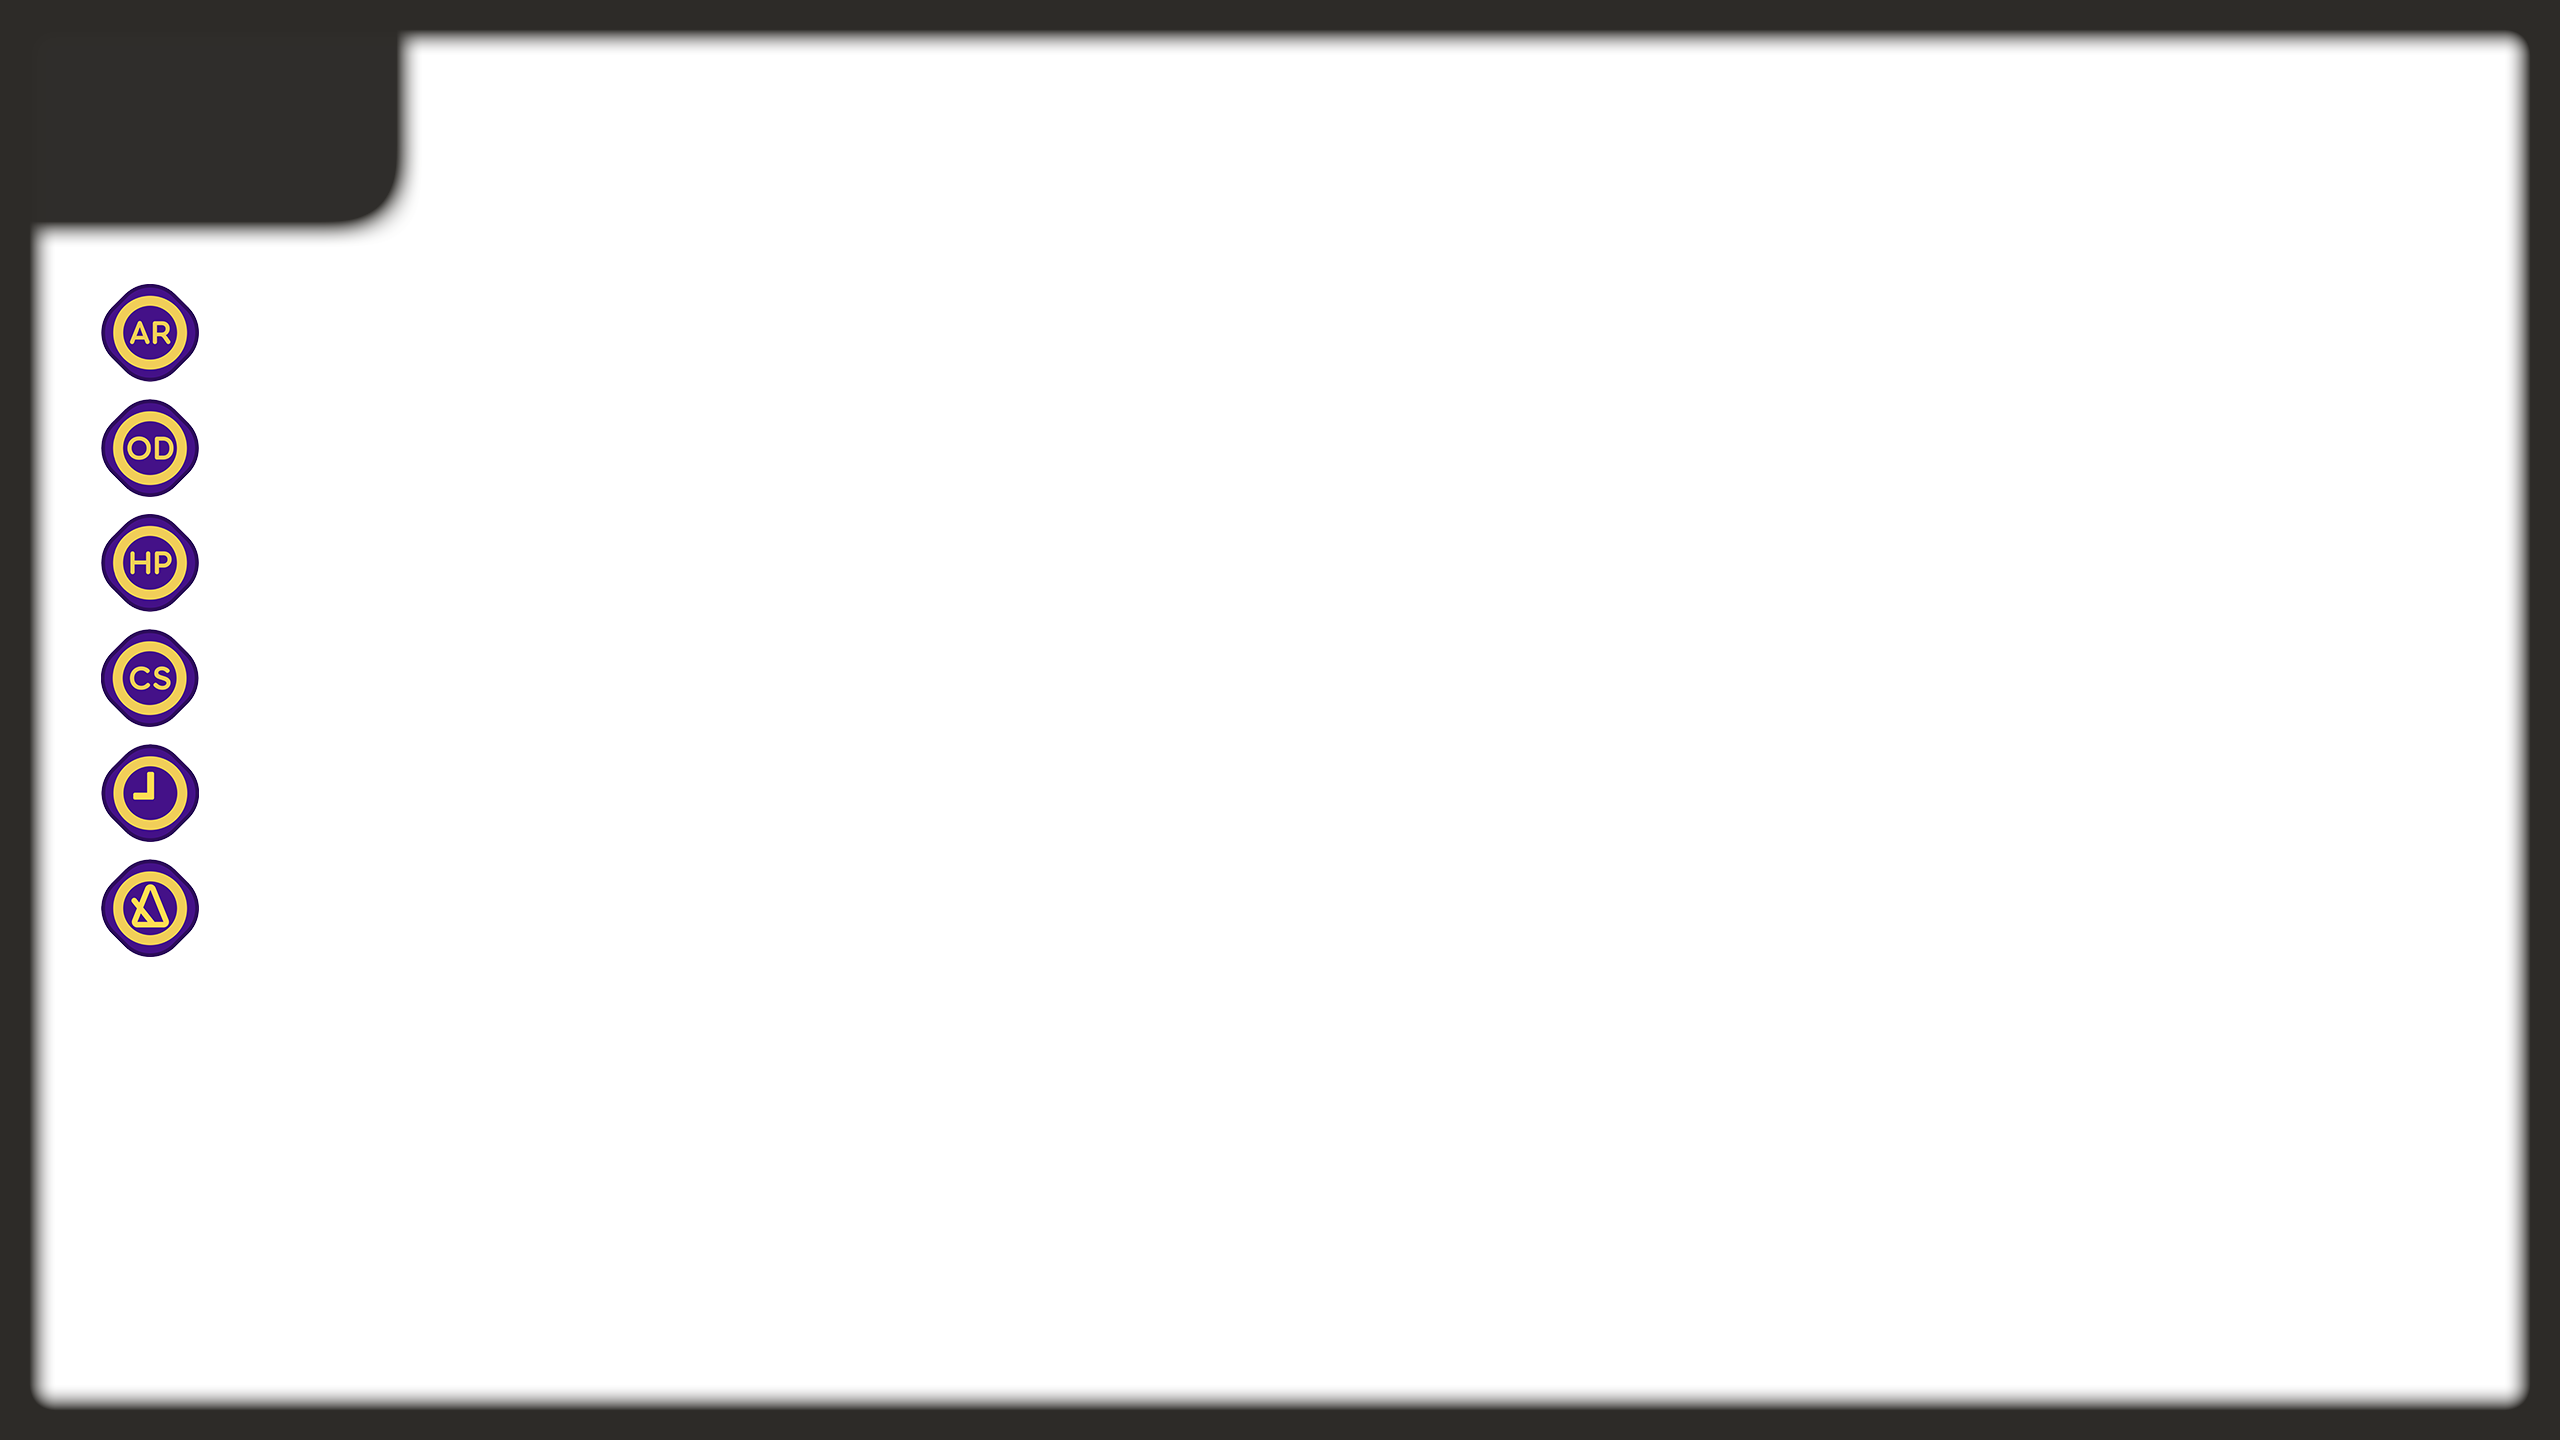
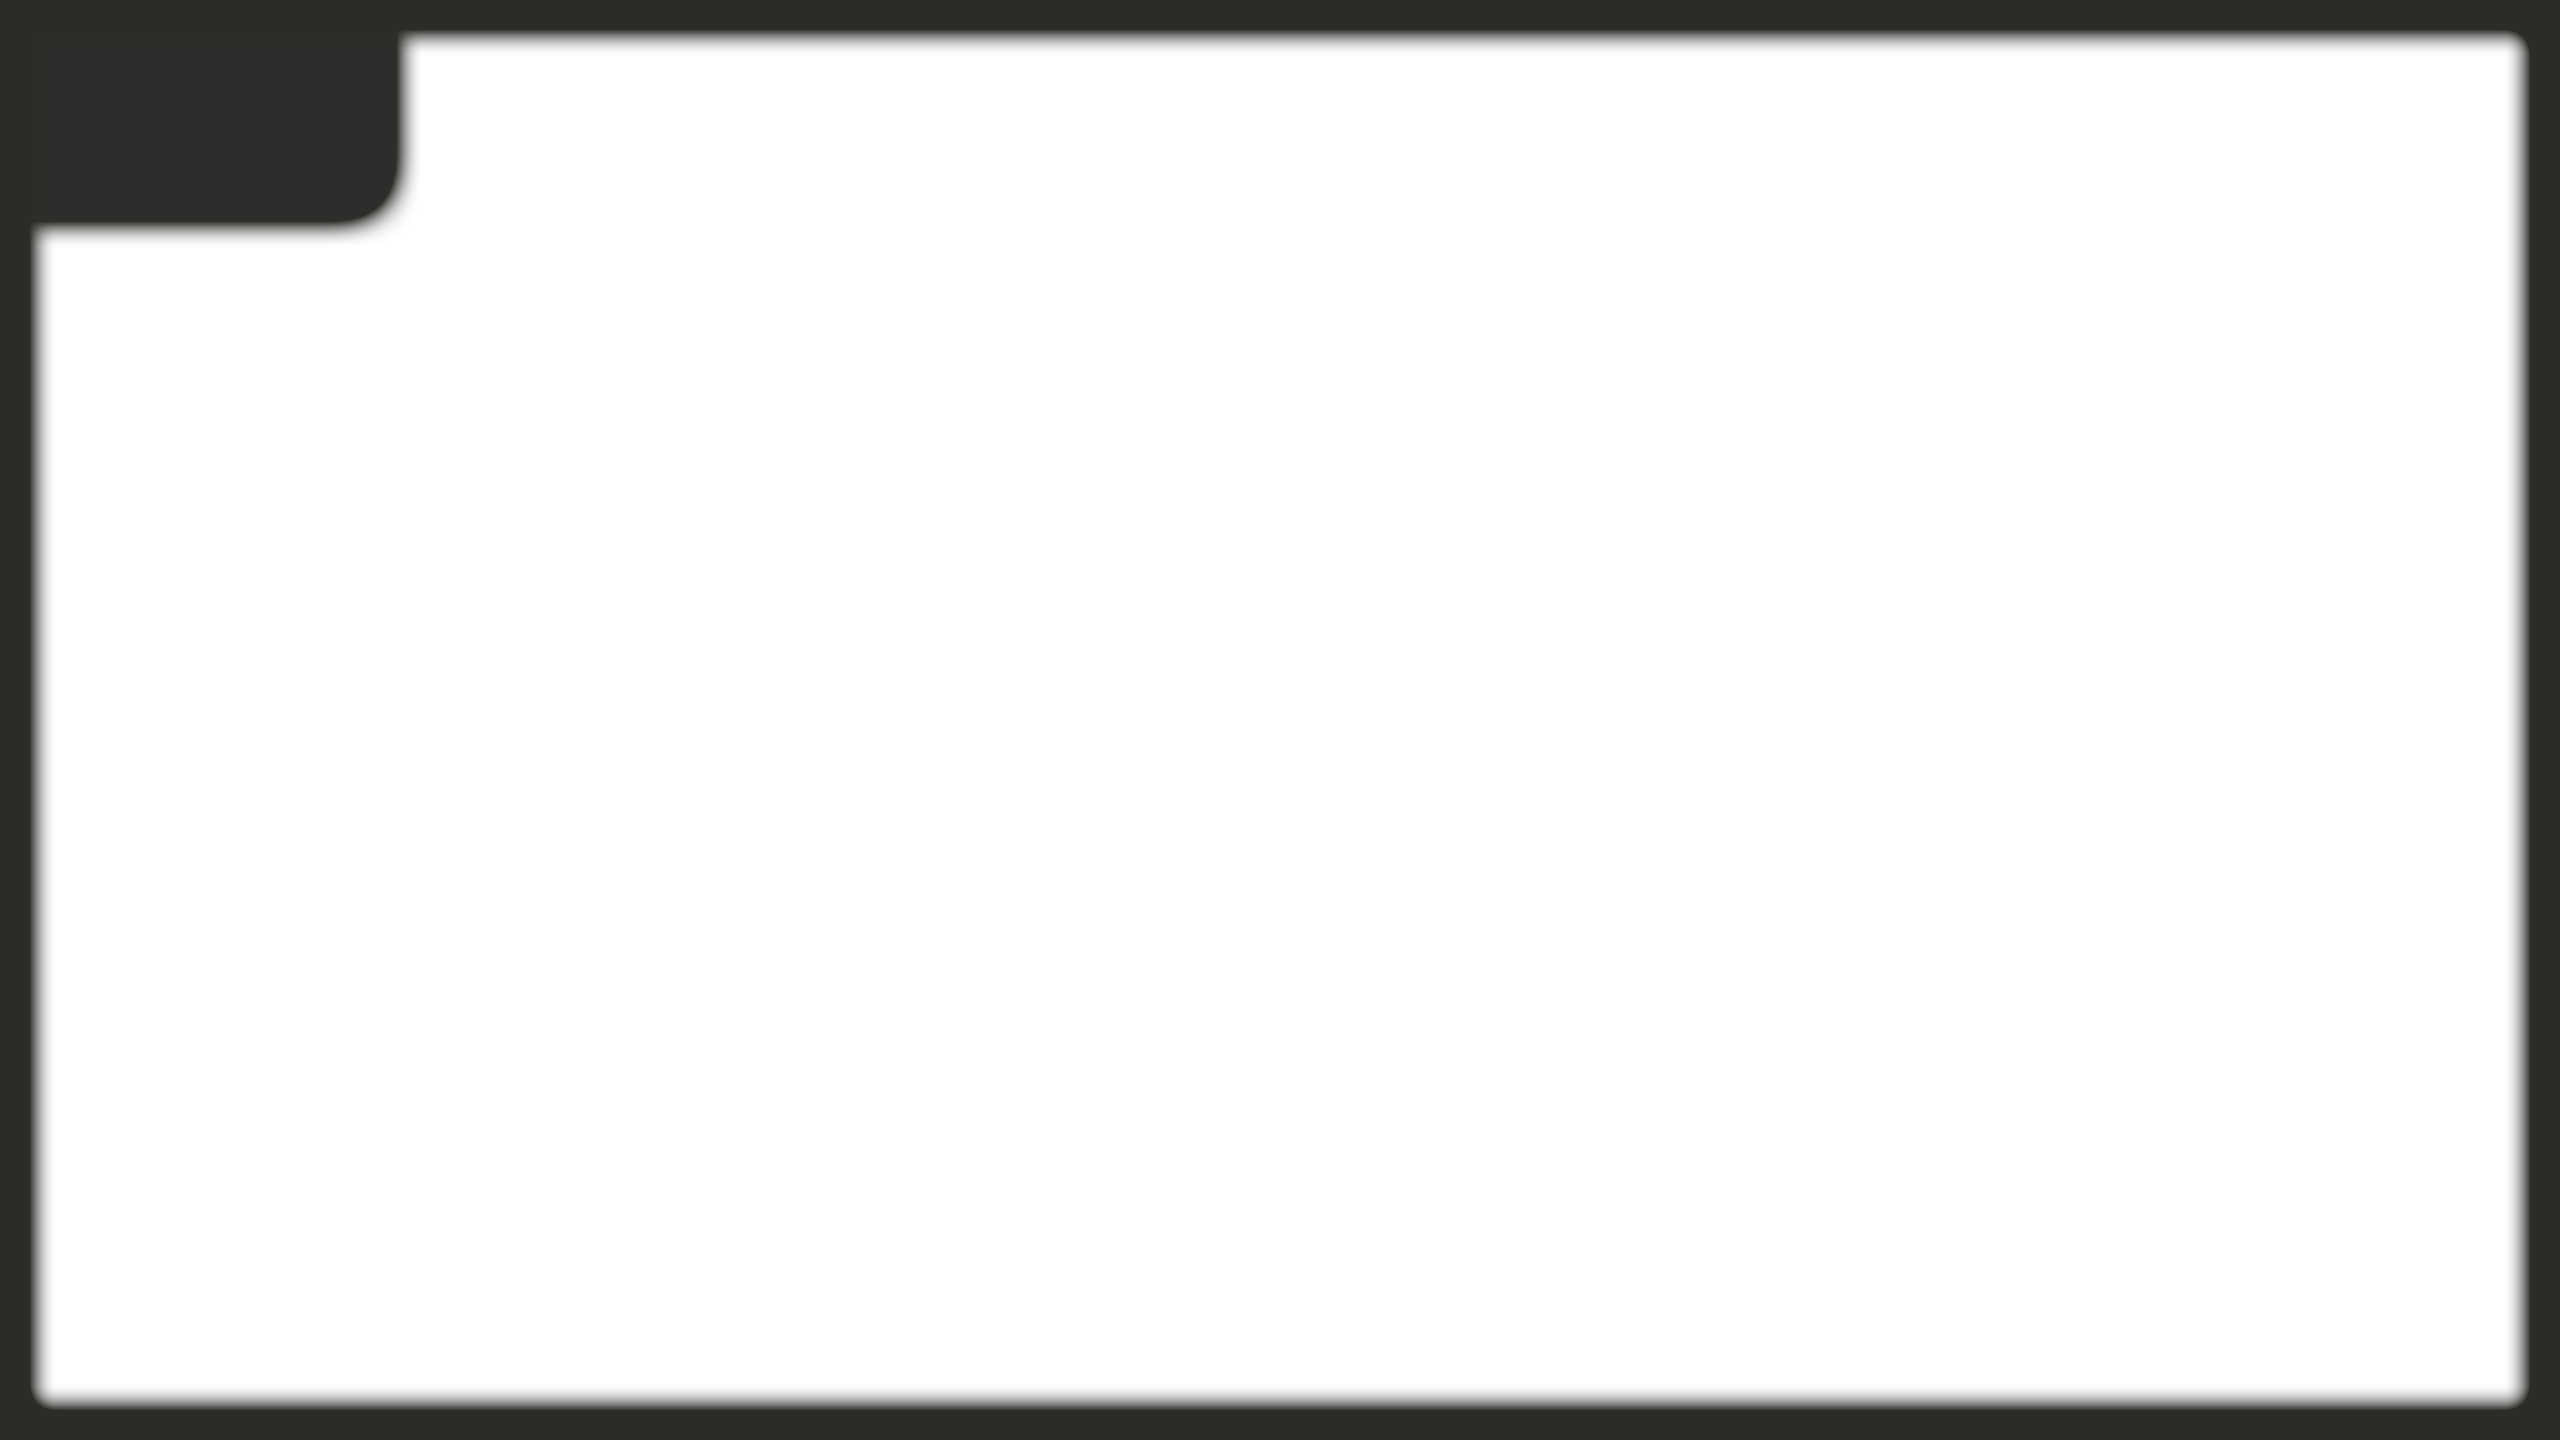
feat: showcase info场景图标改为切图，避免出现图标和数值不对齐问题；数值改为左对齐

Changed region(s): [[0.0312, 0.1875, 0.0938, 0.6562]]

diff --git a/MP5_SHOWCASE_INFO/style.css b/MP5_SHOWCASE_INFO/style.css
@@ -90,22 +90,32 @@ body {
     /* 右对齐 */
     text-align: right;
 }
+#map-icon-container {
+    position: absolute;
+    top: 284px;
+    left: 100px;
+    display: flex;
+    flex-direction: column;
+    gap: 31px;
+}
+#map-icon-container img{
+    width: 100px;
+    height: 100px;
+}
 
 #map-data-container {
     position: absolute;
     top: 284px;
     left: 230px;
-    /*display: none;*/
-    text-align: center;
+    text-align: left;
     display: flex;
     flex-direction: column;
     gap: 31px;
-
 }
-
 .map-data-text {
     color: #efca1b;
     font-size: 70px;
+    line-height: 100px;
     font-family: TorusNotched-Regular;
     text-shadow: 1px 1px 5px rgba(0, 0, 0, 1);
 }

diff --git a/MP5_SHOWCASE_INFO/index.html b/MP5_SHOWCASE_INFO/index.html
@@ -21,6 +21,14 @@
         <span id="map-title"></span>
 
         <span id="map-diff"></span>
+        <div id="map-icon-container">
+            <img src="../COMMON/img/icon/ar-icon@full.png">
+            <img src="../COMMON/img/icon/od-icon@full.png">
+            <img src="../COMMON/img/icon/hp-icon@full.png">
+            <img src="../COMMON/img/icon/cs-icon@full.png">
+            <img src="../COMMON/img/icon/time-icon@full.png">
+            <img src="../COMMON/img/icon/bpm-icon@full.png">
+        </div>
 
         <div id="map-data-container">
             <span id="map-ar" class="map-data-text"></span>
